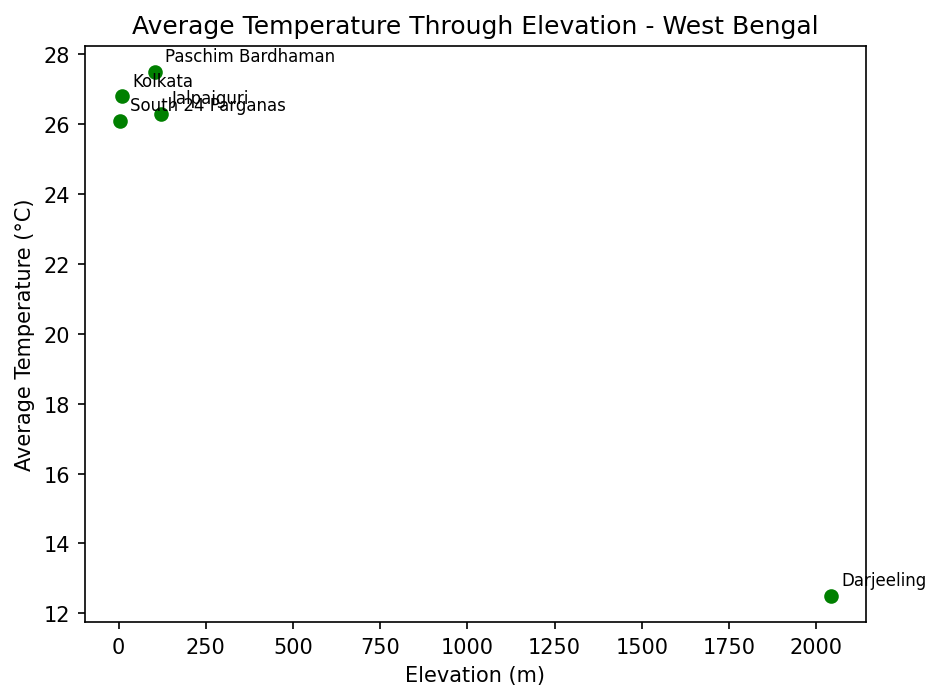
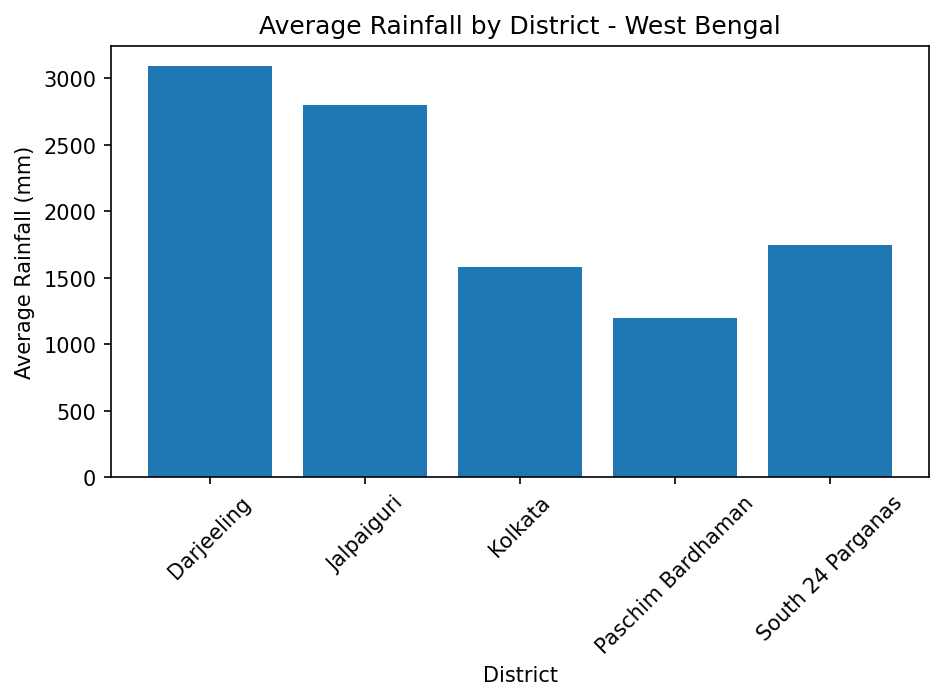
Day 20 - West Bengal Climate Summary Project

diff --git a/day_20.py b/day_20.py
@@ -1,0 +1,34 @@
+import pandas as pd
+import matplotlib.pyplot as plt
+df = pd.read_csv("wb_climate_new.csv")
+df_region = {
+    "district": ["Darjeeling", "Jalpaiguri", "Kolkata", "Paschim Bardhaman", "South 24 Parganas"],
+    "region": ["North", "North", "South", "West","South"]   
+}
+df_region = pd.DataFrame(df_region)
+merged = pd.merge(df, df_region, on="district")
+print(merged)
+highest_rainfall = merged.loc[merged["avg_rainfall_mm"].idxmax()]
+print("District with highest average rainfall:", highest_rainfall["district"])
+print("Average rainfall in that district:", highest_rainfall["avg_rainfall_mm"], "mm")
+lowest_temperature = merged.loc[merged["avg_temp_c"].idxmin()]
+print("District with lowest average temperature:", lowest_temperature["district"])
+print("Average temperature in that district:", lowest_temperature["avg_temp_c"], "*C")
+plt.figure()
+plt.bar(merged["district"], merged["avg_rainfall_mm"])
+plt.xlabel("District")
+plt.ylabel("Average Rainfall (mm)")
+plt.title("Average Rainfall by District - West Bengal")
+plt.xticks(rotation=45)
+plt.tight_layout()
+plt.savefig("rainfall_chart.png", dpi=150, bbox_inches="tight")
+plt.show()
+plt.figure()
+plt.bar(merged["district"], merged["avg_temp_c"])
+plt.xlabel("District")
+plt.ylabel("Average Temperature (°C)")
+plt.title("Average Temperature by District - West Bengal")
+plt.xticks(rotation=45)
+plt.tight_layout()
+plt.savefig("temperature_chart.png", dpi=150, bbox_inches="tight")
+plt.show()
